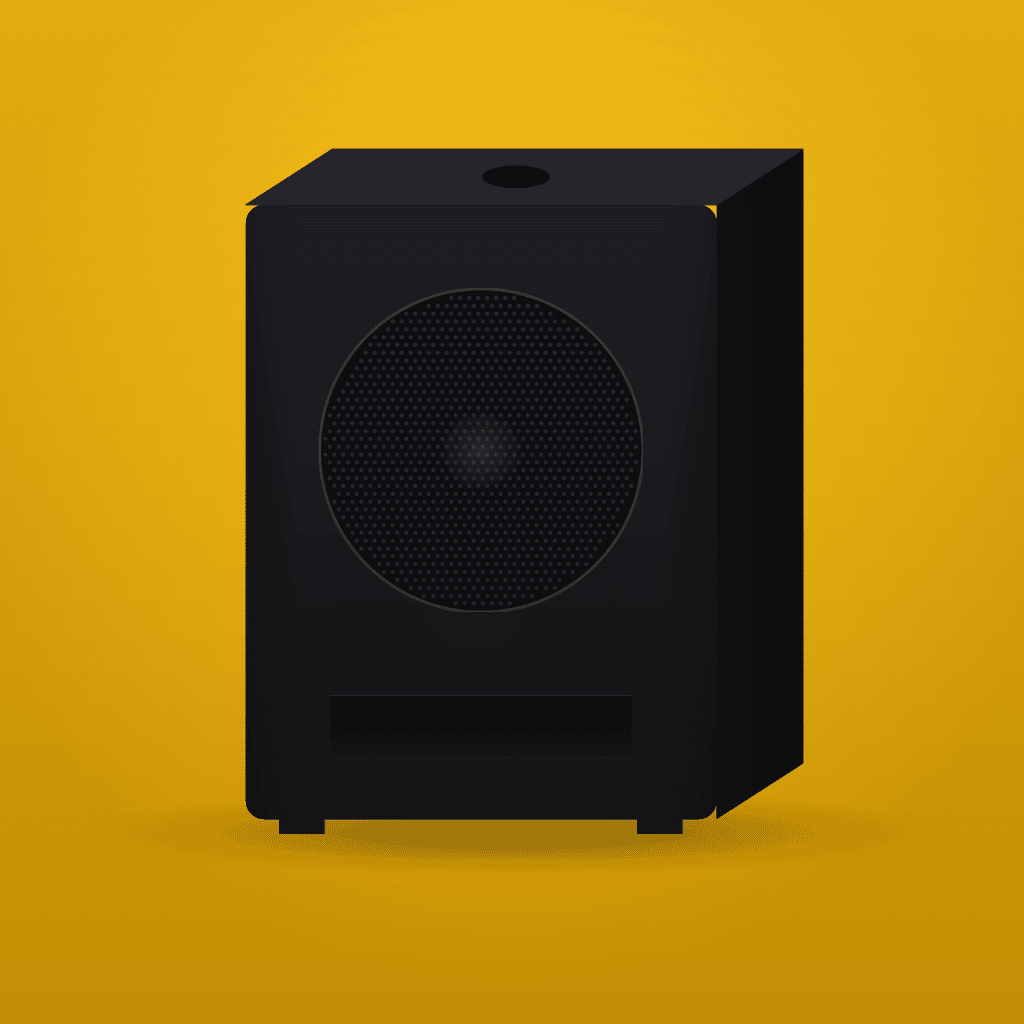
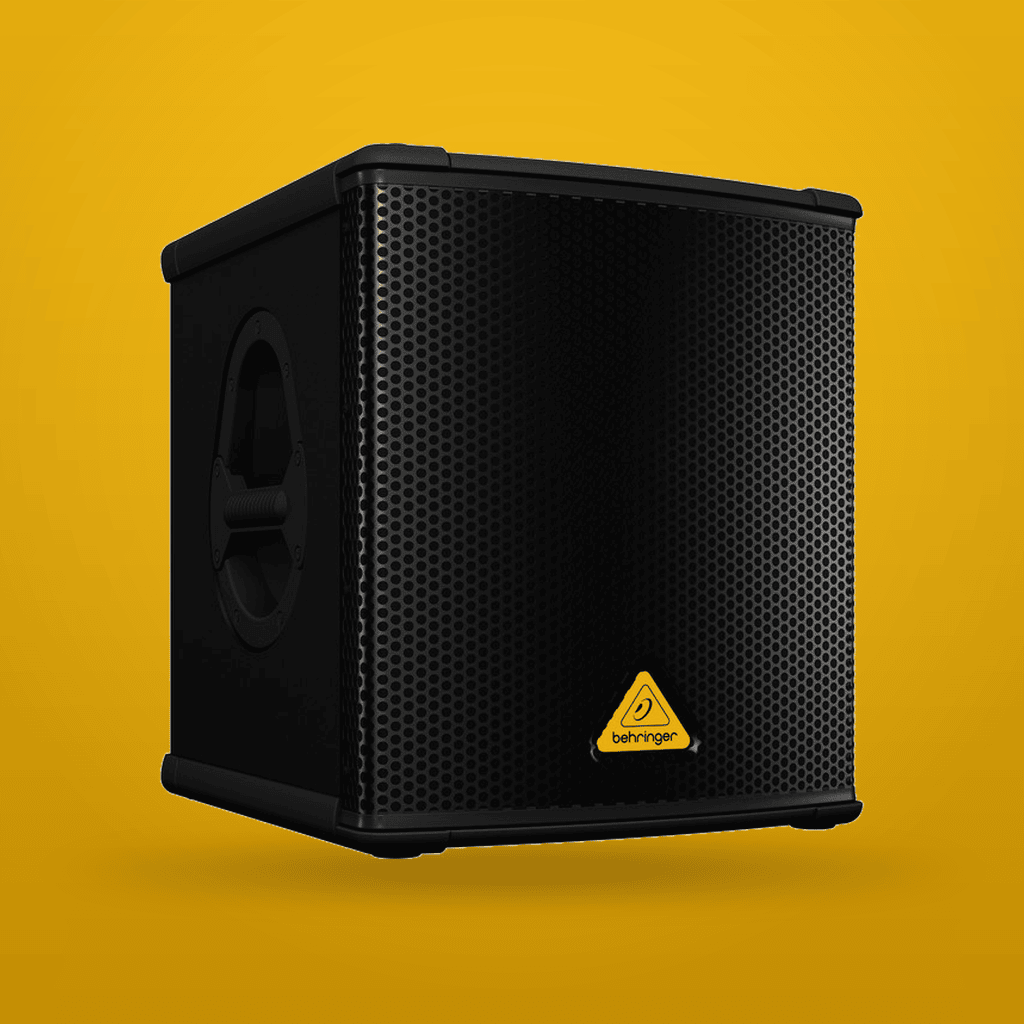
Tilbudskort på /karaoke, rigtigt Behringer-foto på subwoofer, prd opdateret
- BundleGrid kan nu genbruges med ids + egen overskrift, så forsidens
  tilbudskort bruges til karaokepakkerne (dele med + og "Spar X kr"-badge).
  De manuelle forklaringsbokse er fjernet — kortet viser selv regnestykket
- Subwooferens placeholder-illustration erstattet af rigtigt Behringer-foto,
  fritlagt og lagt på den gule studiebaggrund med blød gulvskygge
- prd.json: alle rettelser og opgaver fra denne runde dokumenteret, plus et
  task_overblik med de resterende åbne punkter

Claude-Session: https://claude.ai/code/session_012rE1VGatTjVJVeJq2MLF7x

Changed region(s): [[0.1562, 0.125, 0.8438, 0.875], [0.5625, 0.6562, 0.6875, 0.75]]

diff --git a/src/app/karaoke/page.tsx b/src/app/karaoke/page.tsx
@@ -3,6 +3,7 @@ import Link from "next/link";
 import Testimonials from "@/components/Testimonials";
 import Footer from "@/components/Footer";
 import CategoryProductGrid from "@/components/CategoryProductGrid";
+import BundleGrid from "@/components/BundleGrid";
 
 export const metadata: Metadata = {
   title: "Lej Karaoke København | Maskine, storskærm & lyd | Lejhøjtaler.dk",
@@ -71,41 +72,14 @@ export default function KaraokePage() {
       </section>
 
       <main className="relative z-20 bg-[#07060b]">
-        {/* Pakker først — det er her kunden sparer mest */}
-        <section id="pakker" className="mx-auto max-w-4xl px-4 py-20 sm:py-24">
-          <p className="mb-2 text-center text-xs font-semibold uppercase tracking-[0.2em] text-brand-400">
-            Spar op til 485 kr
-          </p>
-          <h2 className="mb-4 text-center text-3xl font-bold sm:text-4xl">Karaokepakkerne</h2>
-          <p className="mx-auto mb-12 max-w-2xl text-center text-white/50">
-            Maskine, skærm til teksterne og lyd der kan følge med — samlet til én pris.
-            Det er markant billigere end at leje delene hver for sig.
-          </p>
-
-          <CategoryProductGrid
-            items={[
-              { id: "pakke_karaoke", tag: "Spar 385,-" },
-              { id: "pakke_karaoke_fest", tag: "Spar 485,-" },
-            ]}
-          />
-
-          <div className="mt-8 grid gap-4 sm:grid-cols-2">
-            <div className="rounded-2xl border border-brand-500/25 bg-brand-500/[0.06] p-5">
-              <p className="text-sm font-semibold text-brand-400">Karaokepakken · 1.100 kr</p>
-              <p className="mt-1 text-sm text-white/50">
-                Maskine (695) + 32&quot; skærm (395) + lille højtalerpakke (395) = 1.485 kr
-                hver for sig.<span className="font-semibold text-white/80"> Du sparer 385 kr.</span>
-              </p>
-            </div>
-            <div className="rounded-2xl border border-brand-500/25 bg-brand-500/[0.06] p-5">
-              <p className="text-sm font-semibold text-brand-400">Karaoke-festpakken · 1.500 kr</p>
-              <p className="mt-1 text-sm text-white/50">
-                Maskine (695) + 55&quot; skærm (595) + store højtalere (695) = 1.985 kr hver for sig.
-                <span className="font-semibold text-white/80"> Du sparer 485 kr.</span>
-              </p>
-            </div>
-          </div>
-        </section>
+        {/* Pakker først — samme tilbudskort som på forsiden, med delene
+            listet og "Spar X kr"-badge direkte på kortet */}
+        <BundleGrid
+          ids={["pakke_karaoke", "pakke_karaoke_fest"]}
+          eyebrow="Spar op til 485 kr"
+          title="Karaokepakkerne"
+          subtitle="Maskine, skærm til teksterne og lyd der kan følge med — samlet til én pris. Markant billigere end at leje delene hver for sig."
+        />
 
         {/* Enkeltdele */}
         <section id="produkter" className="mx-auto max-w-4xl px-4 pb-24">

diff --git a/src/components/BundleGrid.tsx b/src/components/BundleGrid.tsx
@@ -8,23 +8,38 @@ import {
 } from "@/lib/products";
 import { useProducts } from "@/lib/useProducts";
 
-/** Sammensatte pakker (festpakker m.fl.) — separat fra almindeligt produktgrid */
-export default function BundleGrid() {
+/**
+ * Sammensatte pakker vist som tilbudskort — samme kort som på forsiden.
+ * Uden props: alle lyd-pakker (forsiden). Med `ids`: netop de pakker,
+ * i den rækkefølge de er angivet (fx karaokepakkerne på /karaoke).
+ */
+export default function BundleGrid({
+  ids,
+  eyebrow = "Pakker",
+  title = "Klar til festen",
+  subtitle = "Lyd og lys der passer perfekt sammen — booket som én pakke med rabat vs. at leje delene enkeltvis. Levering og opsætning kan tilvælges.",
+}: {
+  ids?: string[];
+  eyebrow?: string;
+  title?: string;
+  subtitle?: string;
+} = {}) {
   const { rentalProducts } = useProducts();
-  const bundles = rentalProducts.filter(isBundleProduct).filter((p) => p.category === "lyd");
+  const bundles = ids
+    ? ids
+        .map((id) => rentalProducts.find((p) => p.id === id))
+        .filter((p): p is RentalProduct => !!p && isBundleProduct(p))
+    : rentalProducts.filter(isBundleProduct).filter((p) => p.category === "lyd");
 
   if (bundles.length === 0) return null;
 
   return (
     <section id="pakker" className="relative z-20 mx-auto max-w-6xl px-4 py-14 sm:py-20">
       <p className="mb-2 text-center text-xs font-semibold uppercase tracking-[0.2em] text-brand-400">
-        Pakker
+        {eyebrow}
       </p>
-      <h2 className="mb-2 text-center text-3xl font-bold sm:text-4xl">Klar til festen</h2>
-      <p className="mx-auto mb-10 max-w-xl text-center text-white/50">
-        Lyd og lys der passer perfekt sammen — booket som én pakke med rabat
-        vs. at leje delene enkeltvis. Levering og opsætning kan tilvælges.
-      </p>
+      <h2 className="mb-2 text-center text-3xl font-bold sm:text-4xl">{title}</h2>
+      <p className="mx-auto mb-10 max-w-xl text-center text-white/50">{subtitle}</p>
 
       <div className="grid grid-cols-1 gap-6 lg:grid-cols-2">
         {bundles.map((p) => (
